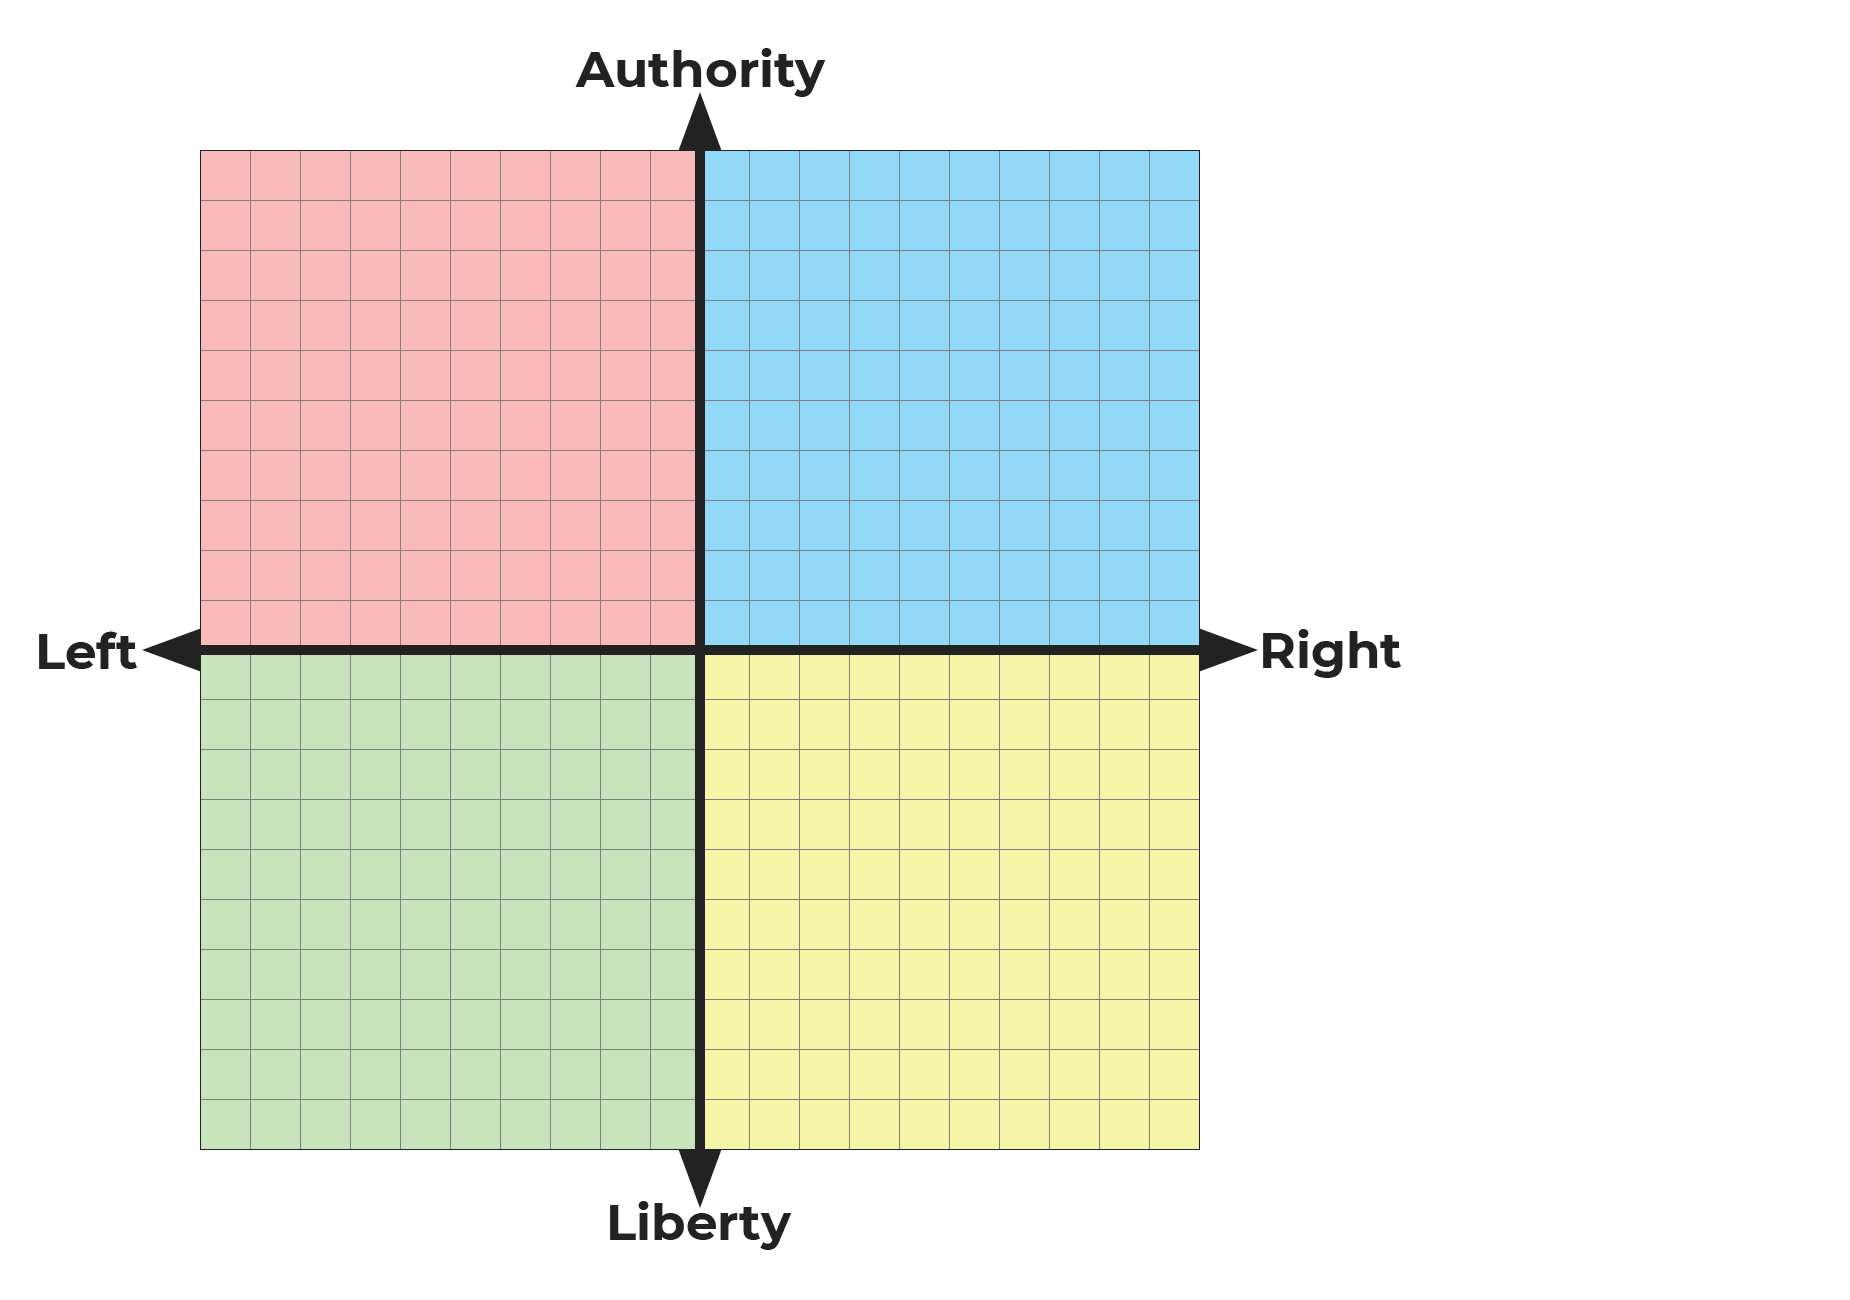
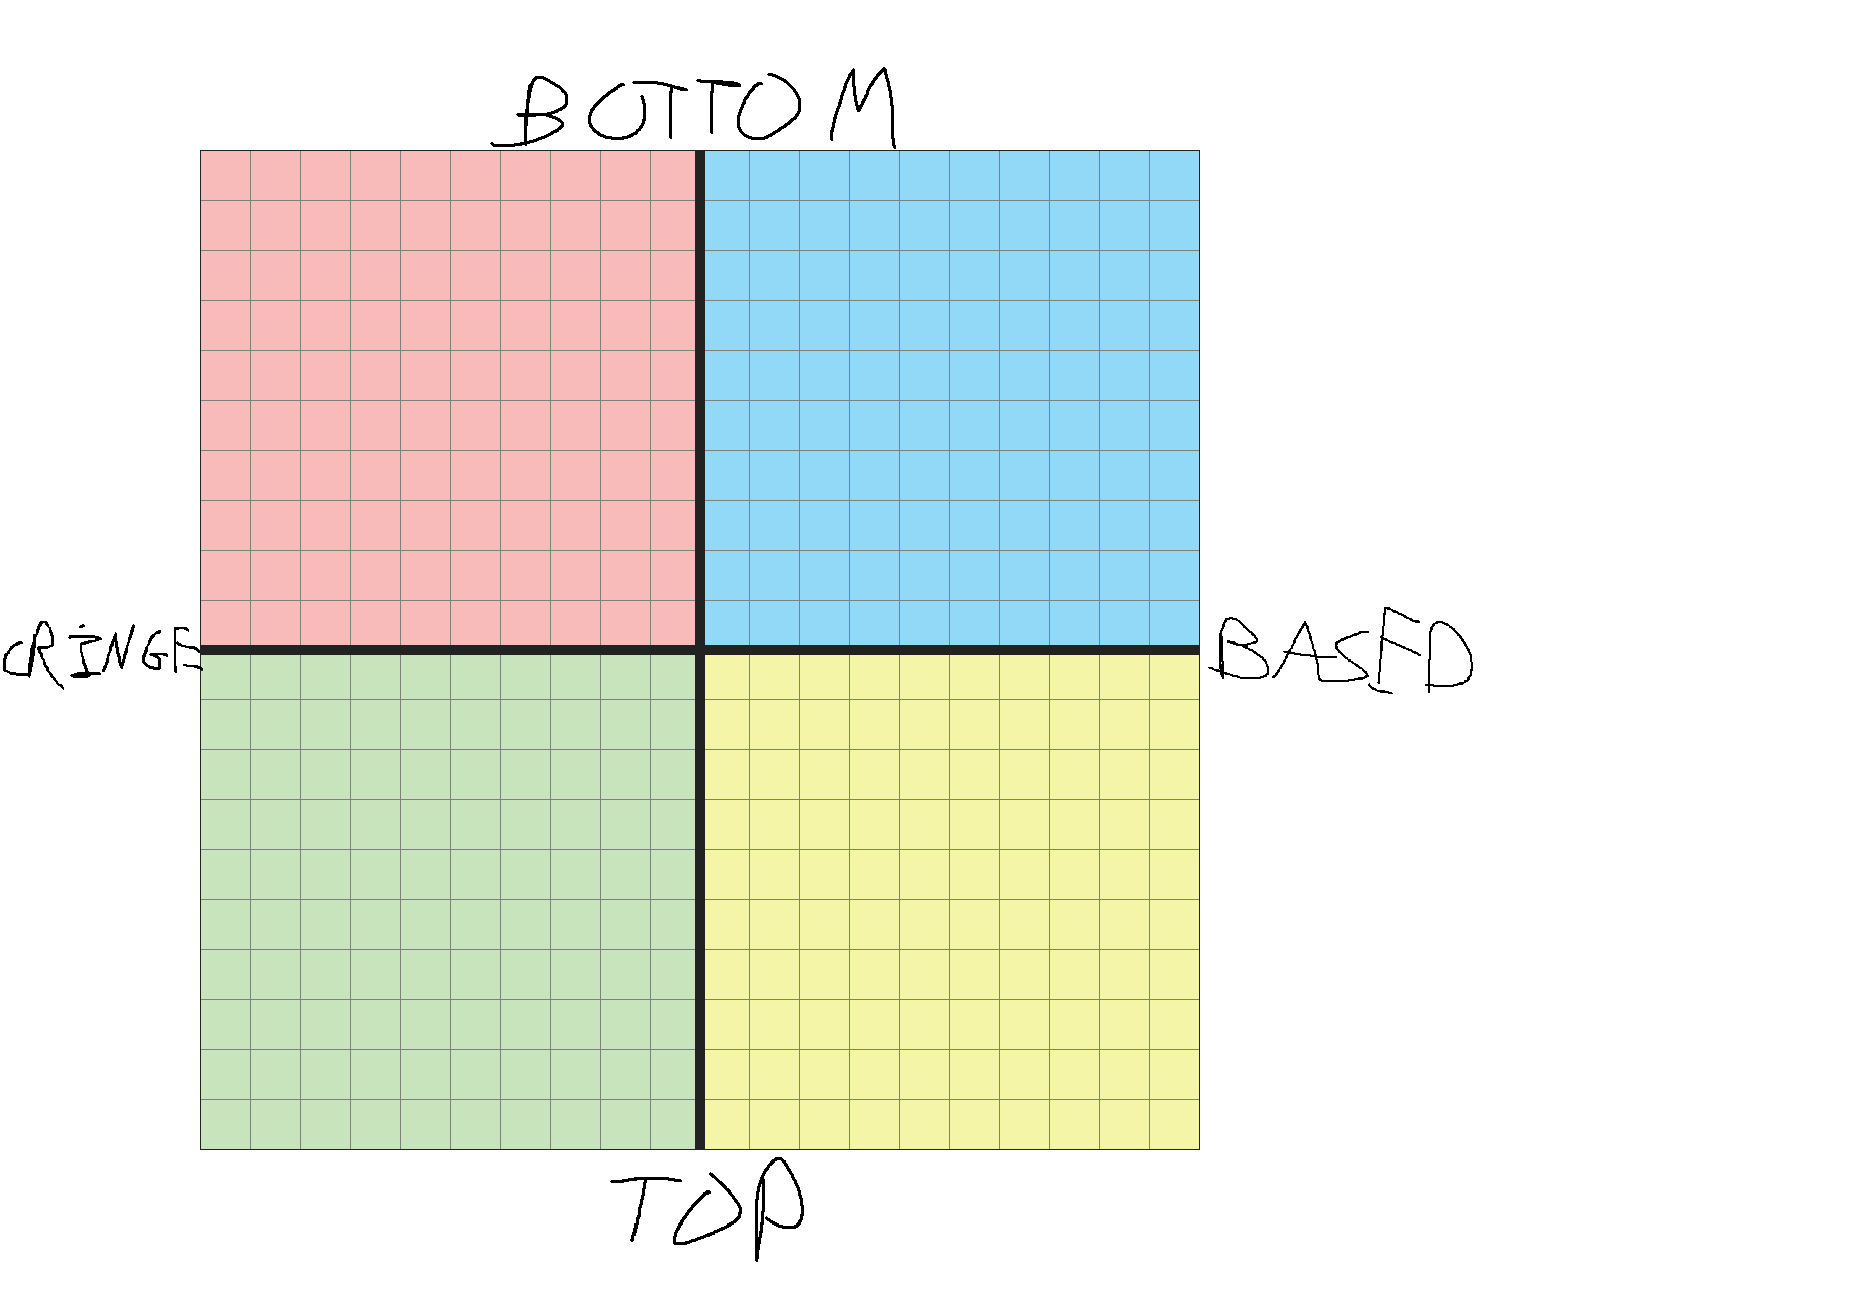
edited compass image, changed some question phrasing

diff --git a/questions.js b/questions.js
@@ -1,33 +1,33 @@
 questions =  [
     {"id": 0, "question": "Whytes deserve the BBC.", "effects": {"based": 1}},
-    {"id": 1, "question": "We should embrace raceplay even if it makes society more racist.", "effects": {"based": 1}},
+    {"id": 1, "question": "Self immolation is an acceptable fetish.", "effects": {"based": 1}},
     {"id": 2, "question": "Killing for fun isn't immoral.", "effects": {"based": 1}},
-    {"id": 3, "question": "It is \"human nature\" to be kinky.", "effects": {"based": 1}},
-    {"id": 4, "question": "\"Exploitation\" is an outdated term, as people have more bodily autonomy than ever now.", "effects": {"based": 1}},
-    {"id": 5, "question": "It's surprising to me how people enjoyed sex back in the older days.", "effects": {"based": 1}},
-    {"id": 6, "question": "Self immolation is an acceptable fetish.", "effects": {"based": 1}},
-    {"id": 7, "question": "I enjoy trying new things even if I hate some new things I end up trying.", "effects": {"based": 1}},
+    {"id": 3, "question": "Being kinky is a good thing.", "effects": {"based": 1}},
+    {"id": 4, "question": "\"Exploitation\" is an SJW term to stunt the sex industry.", "effects": {"based": 1}},
+    {"id": 5, "question": "It's unlikely that people enjoyed sex back in the older days as it was too vanilla.", "effects": {"based": 1}},
+    {"id": 6, "question": "Society should embrace raceplay even if it ends up causing unintended side-effects.", "effects": {"based": 1}},
+    {"id": 7, "question": "Trying new things is important even if a lot of new things are bad.", "effects": {"based": 1}},
     {"id": 8, "question": "Porn is bad due to widespread abuse in the industry.", "effects": {"based": -1}},
     {"id": 9, "question": "Porn is bad because it's bad for your mental health.", "effects": {"based": -1}},
-    {"id": 10, "question": "I think it's okay for someone to pay 20 bucks for a profile picture.", "effects": {"based": -1}},
+    {"id": 10, "question": "It's okay for someone to pay 20 bucks for a Discord profile picture.", "effects": {"based": -1}},
     {"id": 11, "question": "Some things are taboo and that's okay.", "effects": {"based": -1}},
-    {"id": 12, "question": "There is value in finding something you like and sticking with it.", "effects": {"based": -1}},
-    {"id": 13, "question": "Exploration can be good but I'd rather stick to the same stuff.", "effects": {"based": -1}},
-    {"id": 14, "question": "Vanilla sex is always better than whatever shit people come up with..", "effects": {"based": -1}},
-    {"id": 15, "question": "It's okay to move in with someone even if it means they become the sole breadwinner of the house.", "effects": {"bottom": 1}},
-    {"id": 16, "question": "I appreciate and sometimes desire emotional support from others.", "effects": {"bottom": 1}},
-    {"id": 17, "question": "Joy of shitting is underrated. Especially if the turd logs are huge.", "effects": {"bottom": 1}},
-    {"id": 18, "question": "🥺 is an acceptable emoji to use in the right circumstances.", "effects": {"bottom": 1}},
+    {"id": 12, "question": "Repetition isn't inherently bad, it's okay to make routine out of things.", "effects": {"based": -1}},
+    {"id": 13, "question": "Exploration can be good but sticking to what you like is better.", "effects": {"based": -1}},
+    {"id": 14, "question": "Vanilla sex is always better than whatever shit young people come up with.", "effects": {"based": -1}},
+    {"id": 15, "question": "Joy of shitting is underrated. Especially if the turd logs are huge.", "effects": {"bottom": 1}},
+    {"id": 16, "question": "🥺 is an acceptable emoji to use in the right circumstances.", "effects": {"bottom": 1}},
+    {"id": 17, "question": "Listening to authority can be a good thing.", "effects": {"bottom": 1}},
+    {"id": 18, "question": "I appreciate and desire emotional support from people close to me.", "effects": {"bottom": 1}},
     {"id": 19, "question": "I get flustered easily.", "effects": {"bottom": 1}},
-    {"id": 20, "question": "I do (or I am willing to do) butt stuff.", "effects": {"bottom": 1}},
+    {"id": 20, "question": "I [would] do butt stuff.", "effects": {"bottom": 1}},
     {"id": 21, "question": "Enemas are important for your health, especially the health of your gut microfauna.", "effects": {"bottom": 1}},
-    {"id": 22, "question": "For a healthy society it's critical that people listen to what police officers say (yes this is a sex question).", "effects": {"bottom": 1}},
+    {"id": 22, "question": "It's okay to move in with someone even if it means they become the sole breadwinner of the house.", "effects": {"bottom": 1}},
     {"id": 23, "question": "I would rather be by myself than to appease other people.", "effects": {"bottom": -1}},
     {"id": 24, "question": "It feels uncomfortable to depend on someone else, even if they're more than okay with the arrangement.", "effects": {"bottom": -1}},
-    {"id": 25, "question": "Emasculation is worse than just humiliation.", "effects": {"bottom": -1}},
+    {"id": 25, "question": "On their own, emasculation is worse than humiliation.", "effects": {"bottom": -1}},
     {"id": 26, "question": "One's innate sense of self is more important than any emotional help they get from others.", "effects": {"bottom": -1}},
     {"id": 27, "question": "It feels good to have people around you who look up to you and appreciate what you do for them.", "effects": {"bottom": -1}},
-    {"id": 28, "question": "I'm a man and I would love to get my prostate juices squeezed out of my body. Alternatively, I'm a woman and I love big grithy cock reorganising my insides.", "effects": {"bottom": -1}},
+    {"id": 28, "question": "I'm a man and I would hate to get my prostate juices squeezed out of my body. Alternatively, I'm a woman and I hate big grithy cocks when they reorganise my insides.", "effects": {"bottom": -1}},
     {"id": 29, "question": "The feeling of being self-dependent is better than the feeling of finding a great partner.", "effects": {"bottom": -1}},
 //    {"id": 30, "question": "Two consenting individuals should be able to do whatever they want with each other, even if it makes me uncomfortable.", "effects": {"prog": 1}},
 //    {"id": 31, "question": "An individual's body is their own property, and they should be able to do anything they desire to it.", "effects": {"prog": 1}},
